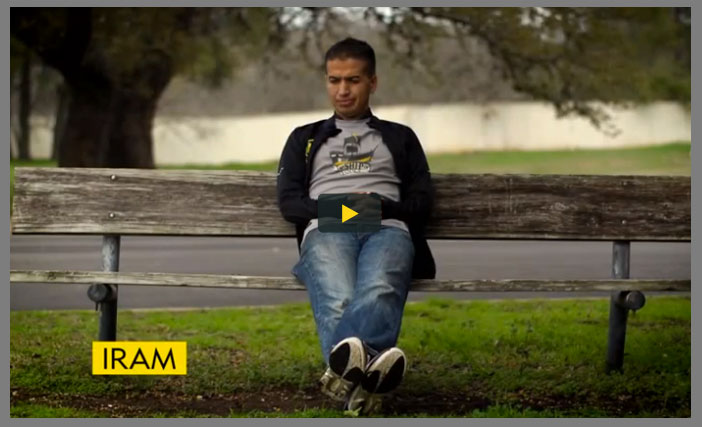
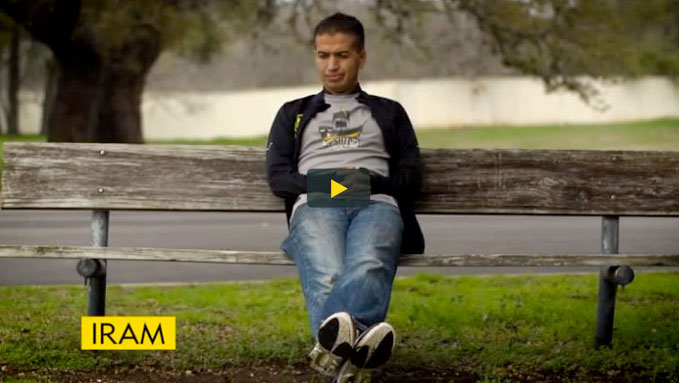
updates for navigation services videos

diff --git a/index.html b/index.html
@@ -117,24 +117,37 @@
 			<div class="gallery">
 	        	<div class="gmask">
 			    	<ul>
-				        <li class="slide-one stretch">
+				        <li class="slide-one stretch relative">
+							<span class="dim">
 							<img id="proof-people" src="img/proof-people.jpg" alt="1 | The Proof is in the People" />
 							<img id="sarah" src="img/sarah.jpg" alt="" />
 							<div class="text-block block">
 								<h1 class="metroblacktwo caps">NAVIGATING THE CANCER JOURNEY<br /><span class="mreavessansbold" style="font-size: .6725em;">this is sarah’s story</span></h1>
 								<p>Sarah and her husband were ready. Ready to start a family, ready to get back to normal life beyond cancer. Then, the second diagnosis came in. Breast cancer. Again. The news was devastating and the options were few.</p>
-								<p>At 31, Sarah chose to have her ovaries removed, her best chance to survive. She thought it meant her dream of being a parent was over. She was fighting for her own life now. But when her oncologist mentioned the possibility of in vitro fertilization and connected Sarah to the LIVESTRONG Foundation, everything changed.</p>
+								<p>At 31, Sarah chose to have her ovaries removed, her best chance to survive. She thought it meant her dream of being a parent was over. She was fighting for her own life now. But when her oncologist mentioned the
+									possibility of in vitro fertilization and connected Sarah to the LIVESTRONG Foundation, everything changed.</p>
 								<p>Sarah and her husband worked with one of our navigators to help pay for the medications and services for freezing embryos. And when her sister-in-law stepped forward to be a surrogate, their dreams came true. Lilly Dee was born nine months later.</p>
 								<p>Sarah sums it up, "The LIVESTRONG Foundation made what we thought was impossible... possible."</p>
-								<p><a class="sentinelblackitalic yellow" style="text-decoration: underline;" href="">Watch Sarah's Video</a></p>
+								<p><a class="sentinelblackitalic yellow" style="text-decoration: underline;" href="" id="watch-savahs-video">Watch Sarah's Video</a></p>
 							</div>
-							
-				        </li>
+							</span>
+							<div id="sarahs-video-wrap">
+								<div class="video-wrap">
+									<a href="#" class="" id="sarah-video"><img src="img/sarah-thumb.jpg" alt="" /></a>
+									<div class="video-container" style="display: none;"></div>
+									<h3 class="sentinelblackitalic yellow"><span class="mreavessansbold">SARAH</span><br /><span class="mreavessansreg">two-time breast cancer survivor </span><br /><br />“I was afraid cancer meant I couldn’t have children.”</h3>
+								</div>
+							</div>
+			        	</li>
+			
+			
+			
 				        <li class="slide-two black-overlay">
 							<img class="mobile" style="float: right; margin: -70px -6% 0 0; max-width: 80%;" src="img/sliver-right-yellow.png" alt="" />
 							<div class="relative">
 								<div class="text-block fleft">
-									<p class="white caps mreavessansreg">Cancer happens to a person, not a number. Each person has her journey, his experience, her feelings, his attitude. That’s why we provide free Cancer Navigation Services to help those affected by cancer decide how to face their journey. Cancer is not in control and we help survivors understand that. From the physical to the emotional to the practical, we help with:</p>
+									<p class="white caps mreavessansreg">Cancer happens to a person, not a number. Each person has her journey, his experience, her feelings, his attitude. That’s why we provide free Cancer Navigation Services
+										to help those affected by cancer decide how to face their journey. Cancer is not in control and we help survivors understand that. From the physical to the emotional to the practical, we help with:</p>
 									<ul class="normal yellow metroblacktwo">
 										<li>Insurance Challenges</li>
 										<li>Treatment Concerns</li>
@@ -145,10 +158,15 @@
 									<div class="white-overlay block" style="height: 5px; width: 90%;"></div>
 									<h3 class="sentinelblackitalic yellow">Just ask Melissa from our Navigation Services Department at the Foundation</h3>
 								</div>
-								<a href="#" id="melissa-video"><img id="melissa-thumb" class="fright" src="img/melissa-thumb.jpg" alt="" /></a>
-								<div style="clear: both;"></div>
+								<div class="video-wrap">
+									<a href="#" class="" id="melissa-video"><img src="img/melissa-thumb.jpg" alt="" /></a>
+									<div class="video-container" style="display: none;"></div>
+								</div>
 							</div>			
 				        </li>
+				
+				
+				
 						<li class="slide-three black-overlay">
 							<img class="mobile" style="float: left; margin: -50px 0 0 -6%; max-width: 50%;" src="img/sliver-left-white.png" alt="" />
 							<div class="info-graphic money">
@@ -165,24 +183,22 @@
 							</div>
 							<div style="clear: both;"></div>
 						</li>
+						
+						
+						
+						
 						<li class="slide-four black-overlay">
 							<img class="mobile" style="float: right; margin: -70px -30% 0 0; max-width: 100%;" src="img/sliver-right-yellow.png" alt="" />
-							<div class="relative">
+							<div class="relative" style="text-align: center;">
 								<h2 class="mreavessansreg white caps">But for us, the proof is always in the people. Never a number, but a name. Never a statistic, but a voice. Introducing Iram and Sarah.</h2>
-								<a href="#" class="video-thumb" id="iram-video"><img src="img/iram-thumb.jpg" style="max-width: 100%;" alt="" /></a>
-								<div class="video-container"></div>
-								<h3 class="sentinelblackitalic yellow"><span class="mreavessansbold">IRAM</span><br /><span class="mreavessansreg">brain cancer</span><br /><br />“I was afraid cancer meant I pushed someone I loved away.”</h3>
-								<div style="clear: both;"></div>
+								<div class="video-wrap">
+									<a href="#" class="" id="iram-video"><img src="img/iram-thumb.jpg" alt="" /></a>
+									<div class="video-container" style="display: none;"></div>
+									<h3 class="sentinelblackitalic yellow"><span class="mreavessansbold">IRAM</span><br /><span class="mreavessansreg">brain cancer</span><br /><br />“I was afraid cancer meant I pushed someone I loved away.”</h3>
+								</div>
 							</div>			
 				        </li>
-						<li class="slide-five black-overlay">
-							<div class="relative">
-								<a href="#" class="video-thumb" id="sarah-video"><img src="img/sarah-thumb.jpg" style="max-width: 100%;" alt="" /></a>
-								<div class="video-container"></div>
-								<h3 class="sentinelblackitalic yellow"><span class="mreavessansbold">SARAH</span><br /><span class="mreavessansreg">two-time breast cancer survivor </span><br /><br />“I was afraid cancer meant I couldn’t have children.”</h3>
-								<div style="clear: both;"></div>
-							</div>			
-				        </li>
+						
 				    </ul>
 				</div>
 				<!-- pagination -->
@@ -329,32 +345,75 @@
 		
 		<!--YouTube Thumbs-->
 		<script type="text/javascript">
+		
+		
+	
+			
 			$('#melissa-video').on('click', function(event) {
 				event.preventDefault();
+				var videoHeight = $('#melissa-video img').height();
 				$(this).hide();
-				$('#navigationservices .slide-two .video-container').show();
-			    $('#navigationservices .slide-two .video-container').html('<iframe src="http://www.youtube.com/embed/LsAMPXe8lrI?rel=0&autoplay=1" width="320" height="240" frameborder="0" allowfullscreen="true">').css('background', 'none');
+				setTimeout(function() { $('#navigationservices .slide-two .text-block').animate({opacity: 0.3}, 1700); }, 500);
+				$('#navigationservices .slide-two .video-container').height(videoHeight).show();
+			    $('#navigationservices .slide-two .video-container').html('<span id="melissa-close" class="close-white"></span><iframe src="http://www.youtube.com/embed/LsAMPXe8lrI?autohide=1&autoplay=1&controls=2&rel=0&showinfo=0&iv_load_policy=3&theme=light" width="320" height="240" frameborder="0" allowfullscreen="true">').css('background', 'none');
+			$('#melissa-close').on('click', function(event) {
+				$('#navigationservices .slide-two .video-container').html('').hide();
+				$('#melissa-video').show();
+				setTimeout(function() { $('#navigationservices .slide-two .text-block').animate({opacity: 1.0}, 1700); }, 500);
 			});
+			});	
+			
 			
 			$('#iram-video').on('click', function(event) {
 				event.preventDefault();
+				var videoHeight = $('#iram-video img').height();
 				$(this).hide();
-				$('#navigationservices .slide-four .video-container').show();
-			    $('#navigationservices .slide-four .video-container').html('<iframe src="http://www.youtube.com/embed/X5cKt9vBeFA?rel=0&autoplay=1" width="320" height="240" frameborder="0" allowfullscreen="true">').css('background', 'none');
+				setTimeout(function() { $('#navigationservices .slide-four h2').animate({opacity: 0.3}, 1700); }, 500);
+				$('#navigationservices .slide-four .video-container').height(videoHeight).show();
+			    $('#navigationservices .slide-four .video-container').html('<span id="iram-close" class="close-white"></span><iframe src="http://www.youtube.com/embed/X5cKt9vBeFA?autohide=1&autoplay=1&controls=2&rel=0&showinfo=0&iv_load_policy=3&theme=light" width="320" height="240" frameborder="0" allowfullscreen="true">').css('background', 'none');
+			$('#iram-close').on('click', function(event) {
+				$('#navigationservices .slide-four .video-container').html('').hide();
+				$('#iram-video').show();
+				setTimeout(function() { $('#navigationservices .slide-four h2').animate({opacity: 1.0}, 1700); }, 500);
+			});
 			});
 			
-			$('#sarah-video').on('click', function(event) {
-				event.preventDefault();
-				$(this).hide();
-				$('#navigationservices .slide-five .video-container').show();
-			    $('#navigationservices .slide-five .video-container').html('<iframe src="http://www.youtube.com/embed/1hPLWtMU1Mg?rel=0&autoplay=1" width="320" height="240" frameborder="0" allowfullscreen="true">').css('background', 'none');
+			
+			
+			
+			
+			
+			$('#watch-savahs-video').click(function(event) {
+			event.preventDefault();
+			$('#navigationservices .slide-one .dim').animate({opacity: 0.1}, 700, function() {
+			$('#sarahs-video-wrap').fadeIn(700, function() {
+			
+				var videoHeight = $('#sarah-video img').height();
+				$('#sarah-video img').hide();
+				$('#sarahs-video-wrap .video-container').height(videoHeight).show();
+			    $('#sarahs-video-wrap .video-container').html('<span id="sarah-close" class="close-white"></span><iframe src="http://www.youtube.com/embed/1hPLWtMU1Mg?autohide=1&autoplay=1&controls=2&rel=0&showinfo=0&iv_load_policy=3&theme=light" width="320" height="240" frameborder="0" allowfullscreen="true">');
+			$('#sarah-close').on('click', function(event) {
+				$('#sarahs-video-wrap').fadeOut(700, function() { 
+					$('#sarahs-video-wrap .video-container').html('');
+					$('#sarah-video').show();
+					setTimeout(function() { $('#navigationservices .slide-one .dim').animate({opacity: 1.0}, 700); }, 500);
+				});
 			});
+				
+			});					
+			});
+
+
+				
+			});
+
+			
 			
 			$('#devon-video').on('click', function(event) {
 				event.preventDefault();
 				$(this).hide();
 				$('#impact .slide-two .video-container').show();
-			    $('#impact .slide-two .video-container').html('<iframe src="http://www.youtube.com/embed/DKUAj6BZoJQ?rel=0&autoplay=1" width="320" height="240" frameborder="0" allowfullscreen="true">').css('background', 'none');
+			    $('#impact .slide-two .video-container').html('<iframe src="http://www.youtube.com/embed/DKUAj6BZoJQ?autohide=1&autoplay=1&controls=2&rel=0&showinfo=0&iv_load_policy=3&theme=light" width="320" height="240" frameborder="0" allowfullscreen="true">').css('background', 'none');
 			});
 		</script>
 		

diff --git a/css/dave.css b/css/dave.css
@@ -21,3 +21,112 @@
 	z-index: 100;
 	background: #fff;
 }
+
+
+#navigationservices .slide-four h2 {
+    display: inline-block;
+    float: none;
+    font-weight: normal;
+    margin-left: 13.469%;
+    margin-right: 1.469%;
+    text-align: left;
+    vertical-align: middle;
+    width: 17.5781%;
+}
+
+
+
+#navigationservices .slide-four h3, #sarahs-video-wrap h3 {
+bottom: 0;
+left: 0;
+display: inline-block;,
+font-size: 0.9275em;
+font-weight: normal;
+line-height: 1.3;
+margin-left: 20px;
+text-align: left;
+width: 13.8281%;
+position: static;
+vertical-align: bottom;
+float: none;
+}
+
+
+
+#navigationservices .slide-two .text-block {
+    margin-left: 16.844%;
+    padding-left: 3.469%%;
+    padding-right: 3.469%;
+    width: 24.563%;
+}
+
+#navigationservices .slide-two .video-wrap {
+	width: 33.844%;
+}
+
+#iram-video img, #sarah-video img, #melissa-video img {
+border: 8px solid #7d7d7d;	
+width: 74%; max-width: 679px;	
+}
+
+#melissa-video img { width: 100%; }
+
+#sarahs-video-wrap {
+	position: absolute;
+	top: 17%;
+	left: 0;
+	width: 100%; 
+	text-align: center;
+	display: none;
+}
+
+
+
+.video-container {
+border: 8px solid #7d7d7d;	
+padding-bottom: 0;
+width: 74%; max-width: 679px;
+display: inline-block;
+vertical-align: baseline;
+margin:0;
+float: none;
+}
+
+#sarahs-video-wrap .video-wrap {
+	width: 49%;
+	margin: auto;
+}
+
+#sarahs-video-wrap .video-container {
+	background-image: url(../img/sarah-thumb.jpg);
+	background-position: 0 0;
+	background-repeat: none;
+	background-size: 100% auto;
+}
+
+#navigationservices .slide-two .video-container {
+width: 100%;	
+}
+
+.video-wrap {
+	display: inline-block; text-align: left; vertical-align: middle; width: 71.844%;
+}
+
+#navigationservices .slide-four .video-wrap {
+width: 49.844%;
+}
+
+.close-white, .close-black {
+	background-image: url(../img/close.png);
+	background-repeat: no-repeat;
+	background-position: 0 0;
+	width: 38px; height: 36px;
+	position:absolute;
+	top: -10px;
+	right: -75px;
+	display: block;
+}
+
+.close-black {
+	background-position: 0 -39px;
+}

diff --git a/js/plugins.js b/js/plugins.js
@@ -103,13 +103,13 @@
 					tab:oldTab,
 					complete: function() {
 						// show current tab
-						resizeHolder();
+						//resizeHolder();
 						contentTabsEffect[options.effect].show({
 							speed: options.animSpeed,
 							tab:newTab,
 							complete: function() {
 								animating = false;
-								resizeHolder(true);
+								//resizeHolder(true);
 								autoRotate();
 							}
 						});
@@ -128,8 +128,8 @@
 				}
 			}
 			if(options.autoHeight) {
-				resizeHolder(true);
-				$(window).bind('resize orientationchange', resizeHolder);
+			//	resizeHolder(true);
+			//	$(window).bind('resize orientationchange', resizeHolder);
 			}
 
 			// autorotation handling
